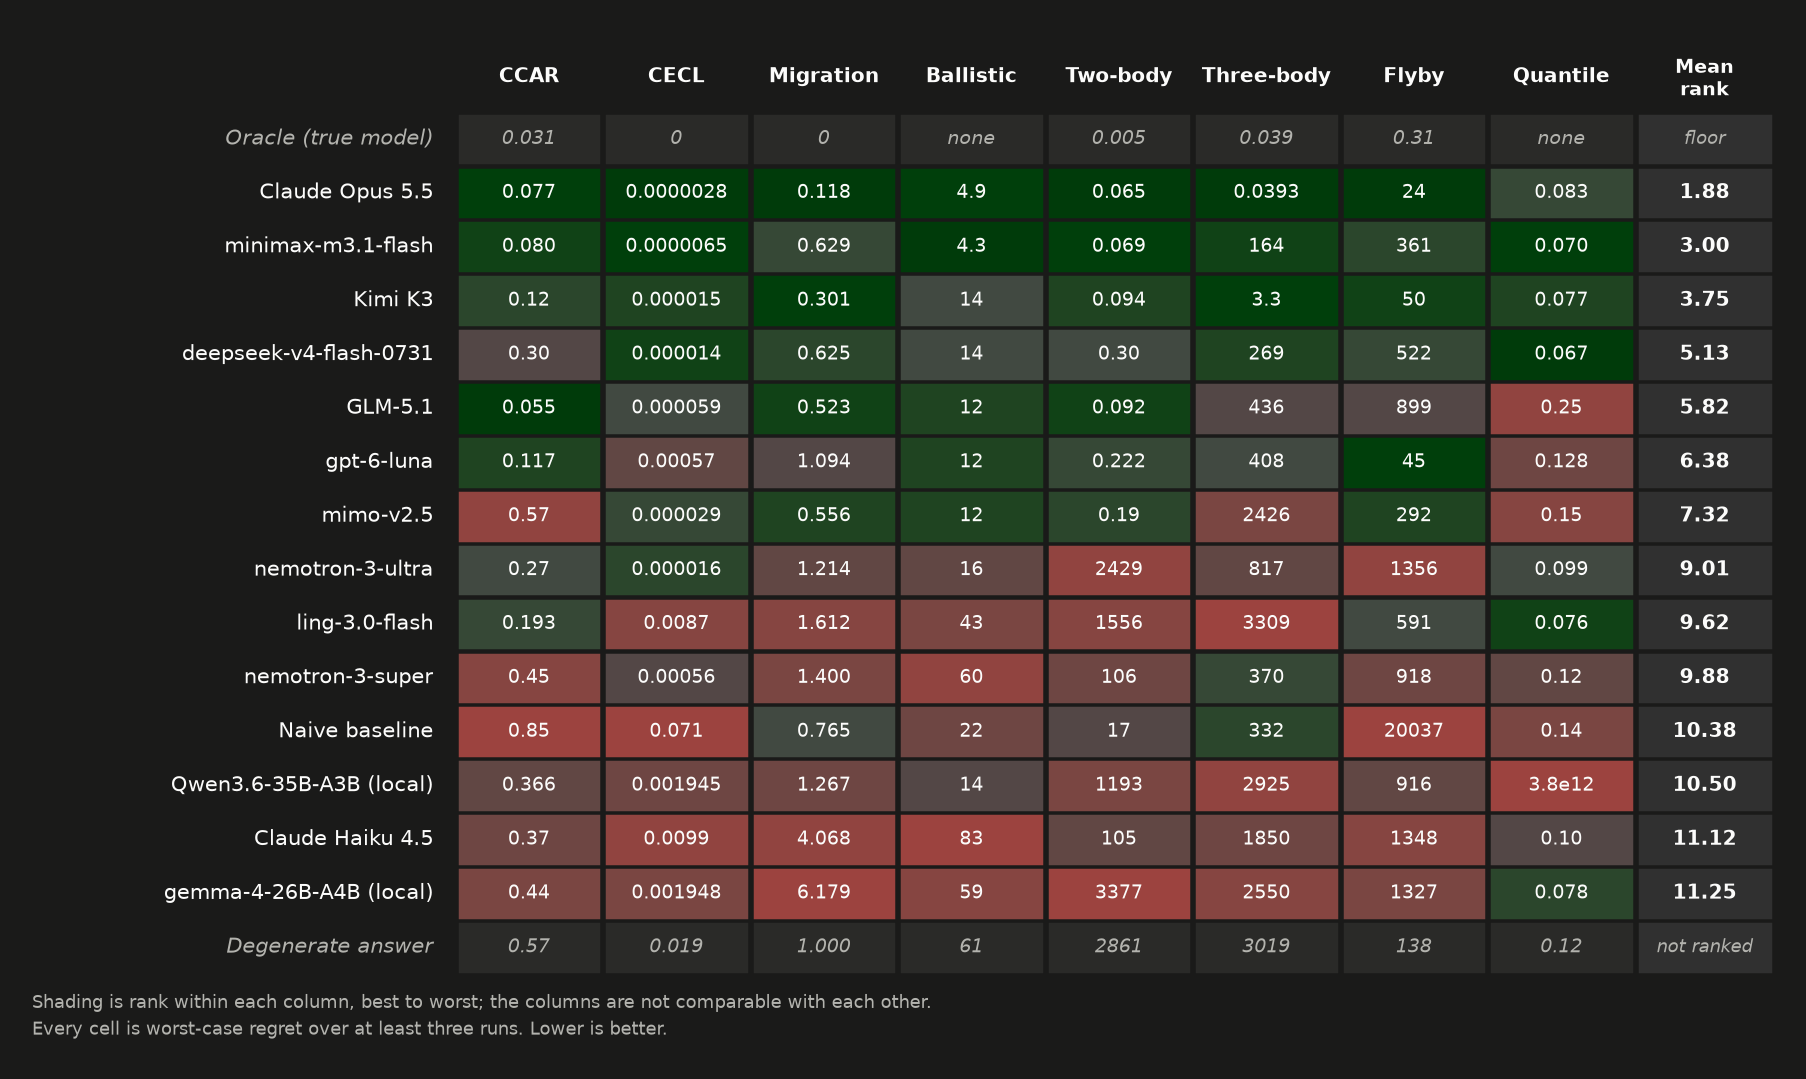
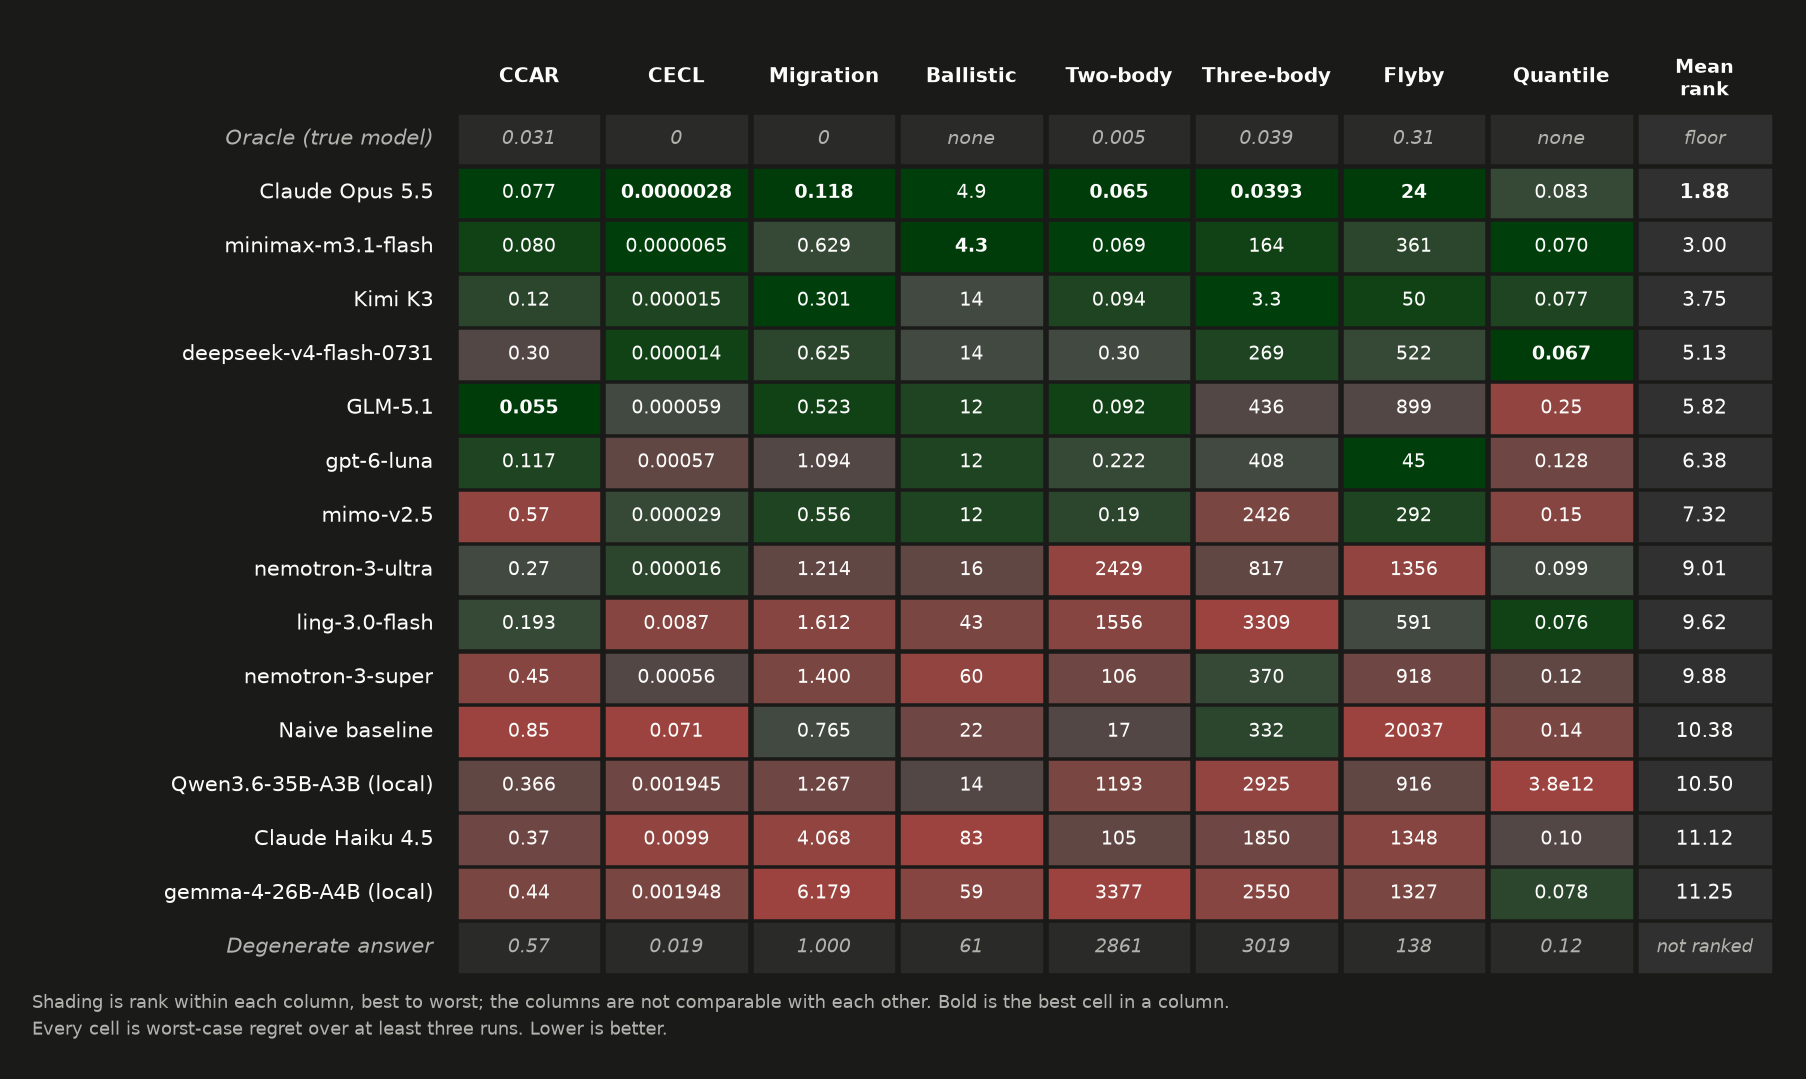
Bold the best cell in the figure, and put Tasks before Scores
The caption said "Bold below marks the best cell in a column" while the
table it referred to was inside a collapsed <details> block, so for a
reader who never expands it the sentence pointed at nothing. Rather than
hide the sentence with the table, render_scores.py now marks the best
cell in bold in the figure itself, on the same condition the markdown
table uses, and the caption drops "below" because it is now true of both.
The figure's own footer says so too, so the image still explains itself
when it is viewed outside the README.

That exposed a second inconsistency: every ranked row's mean rank was
bold, which contradicts "bold is the best cell in a column". Only the
best mean rank is bold now, in the figure and in the table.

Tasks moves above Scores so the column headers mean something when the
reader first meets them. The only prose that depended on the old order
was "the task docs linked below", now pointed at the Tasks section.

diff --git a/scripts/render_scores.py b/scripts/render_scores.py
@@ -147,9 +147,11 @@ def render(mode, path):
             ax.add_patch(Rectangle((LBL + j * CW + 0.012, y(i) - RH / 2 + 0.012),
                                    CW - 0.024, RH - 0.024, facecolor=fc,
                                    edgecolor=t["grid"], linewidth=0.9))
+            best = not is_ref and np.isfinite(v) and RANKS[j][i] == 1
             ax.text(LBL + j * CW + CW / 2, y(i), disp[j], ha="center", va="center",
                     fontsize=6.9, color=t["muted"] if is_ref else t["ink"],
-                    style="italic" if is_ref else "normal")
+                    style="italic" if is_ref else "normal",
+                    fontweight="bold" if best else "normal")
         rtxt = "floor" if i == 0 else ("not ranked" if is_ref else f"{mr:.2f}")
         ax.add_patch(Rectangle((LBL + ncol * CW + 0.012, y(i) - RH / 2 + 0.012),
                                RANKW - 0.024, RH - 0.024, facecolor=t["rankbg"],
@@ -157,11 +159,12 @@ def render(mode, path):
         ax.text(LBL + ncol * CW + RANKW / 2, y(i), rtxt, ha="center", va="center",
                 fontsize=6.4 if is_ref else 7.2, color=t["muted"] if is_ref else t["ink"],
                 style="italic" if is_ref else "normal",
-                fontweight="normal" if is_ref else "bold")
+                fontweight="bold" if (not is_ref and mr == BEST_MR) else "normal")
 
     ax.text(0, -0.78,
             "Shading is rank within each column, best to worst; the columns are not comparable "
-            "with each other.\nEvery cell is worst-case regret over at least three runs. Lower is better.",
+            "with each other. Bold is the best cell in a column.\nEvery cell is worst-case regret "
+            "over at least three runs. Lower is better.",
             ha="left", va="center", fontsize=6.4, color=t["muted"], linespacing=1.5)
     fig.savefig(path, facecolor=t["surface"], bbox_inches="tight", pad_inches=0.16)
     plt.close(fig)
@@ -184,6 +187,7 @@ def rank_in_col(j):
 
 
 RANKS = {j: rank_in_col(j) for j in range(len(COLS))}
+BEST_MR = min(ROWS[i][1] for i in ranked)
 
 
 
@@ -232,6 +236,8 @@ def markdown_table():
                 txt = f"*{txt}*"
             out.append(txt)
         rt = mean_rank_text(i)
+        if mr is not None and mr == BEST_MR:
+            rt = f"**{rt}**"
         out.append(f"{em}{rt}{em}" if em else rt)
         lines.append("| " + " | ".join(out) + " |")
     return "\n".join(lines)
@@ -316,7 +322,7 @@ def readme_block():
         FIGURE.format(nrow=len(ROWS), ncol=len(COLS), nranked=len(ranked)),
         "Shading is rank within that column, green best through red worst; the "
         + " and ".join(f"*{r[0]}*" for r in ROWS if r[1] is None)
-        + " rows are unranked and are shaded neutral. **Bold** below marks the best cell in a "
+        + " rows are unranked and are shaded neutral. **Bold** marks the best cell in a "
           "column. Mean rank is a Borda count within each column and is deliberately the only "
           "aggregate, since the cells are not comparable across columns.",
         "<details>",

diff --git a/README.md b/README.md
@@ -12,6 +12,19 @@ It qualifies a development *process*, not a model. A nine-quarter stress project
 
 Three principles shape every task. **Objective verification:** each task has a verifiable target ([docs/task-design.md](docs/task-design.md)). **Scalar regret:** each task scores continuous regret against an oracle or reference, so a task keeps discriminating even when every agent does well, because the magnitudes still separate them. **Pessimistic assessment:** the question is not how well agents do on average but whether the *worst case* is good enough, so every cell is a maximum rather than a mean.
 
+## Tasks
+
+| Task | Type | Challenge |
+| --- | --- | --- |
+| [CCAR stress loss](docs/tasks/ccar.md) | realistic domain | feature selection under collinearity, transform discovery, bounded functional form, stress extrapolation |
+| [CECL lifetime losses](docs/tasks/cecl.md) | synthetic credit portfolio | lifetime allowance, amortization, defaults and prepayments, recoveries, forecast reversion; simulated lifetime-loss prediction intervals |
+| [Rating migration under stress](docs/tasks/migration.md) | synthetic credit portfolio | annual-to-quarterly matrix decomposition against the Markov embedding problem, macro-conditional transition matrices, one model projected over three supervisory scenarios |
+| [Macro tail quantiles](docs/tasks/quantile.md) | realistic domain | population vs sample quantile, tail extrapolation from 10 observations |
+| [Ballistic extrapolation](docs/tasks/ballistic.md) | controlled mechanism | out-of-range extrapolation against velocity-dependent drag |
+| [Orbital: two-body, three-body, hyperbolic flyby](docs/tasks/orbital.md) | controlled mechanism | periodic signal recovery, coupled retrograde geometry, angles-only orbit determination |
+
+CCAR and quantile are the original realistic domain tasks. CECL adds a synthetic lifetime-credit-loss task. Migration is the newest and hardest of the credit tasks. The mechanism tasks calibrate the harness across a difficulty gradient with exactly known ground truth.
+
 ## Scores
 
 Every cell is the **worst-case regret** over at least three runs, CCAR over eight instances. Lower is better.
@@ -25,7 +38,7 @@ Every cell is the **worst-case regret** over at least three runs, CCAR over eigh
   <img alt="Score matrix: 16 rows across 8 tasks, 14 of the rows ranked, each cell shaded by its rank within that column, green for best through to red for worst. The same numbers are in the collapsed block below and in docs/scores.csv." src="docs/images/scores-light.png">
 </picture>
 
-Shading is rank within that column, green best through red worst; the *Oracle (true model)* and *Degenerate answer* rows are unranked and are shaded neutral. **Bold** below marks the best cell in a column. Mean rank is a Borda count within each column and is deliberately the only aggregate, since the cells are not comparable across columns.
+Shading is rank within that column, green best through red worst; the *Oracle (true model)* and *Degenerate answer* rows are unranked and are shaded neutral. **Bold** marks the best cell in a column. Mean rank is a Borda count within each column and is deliberately the only aggregate, since the cells are not comparable across columns.
 
 <details>
 
@@ -34,7 +47,7 @@ Shading is rank within that column, green best through red worst; the *Oracle (t
 | Model | CCAR | CECL | Migration | Ballistic | Two-body | Three-body | Flyby | Quantile | Mean rank |
 | --- | --- | --- | --- | --- | --- | --- | --- | --- | --- |
 | *Oracle (true model)* | *0.031* | *0* | *0* | *none* | *0.005* | *0.039* | *0.31* | *none* | *floor* |
-| Claude Opus 5.5 | 0.077 | **0.0000028** | **0.118** | 4.9 | **0.065** | **0.0393** | **24** | 0.083 | 1.88 |
+| Claude Opus 5.5 | 0.077 | **0.0000028** | **0.118** | 4.9 | **0.065** | **0.0393** | **24** | 0.083 | **1.88** |
 | minimax-m3.1-flash | 0.080 | 0.0000065 | 0.629 | **4.3** | 0.069 | 164 | 361 | 0.070 | 3.00 |
 | Kimi K3 | 0.12 | 0.000015 | 0.301 | 14 | 0.094 | 3.3 | 50 | 0.077 | 3.75 |
 | deepseek-v4-flash-0731 | 0.30 | 0.000014 | 0.625 | 14 | 0.30 | 269 | 522 | **0.067** | 5.13 |
@@ -72,20 +85,7 @@ Also in [docs/scores.csv](docs/scores.csv), which carries the per-column ranks a
 
 Row labels name the model, not the endpoint that served it, and serving provenance is not controlled ([detail](docs/limitations.md#serving-provenance-is-not-controlled)). A cell is reported only if none of its runs failed for reasons outside the agent's control, with the recorded exceptions noted in [docs/models.md](docs/models.md). Two rows were measured with three draws per instance rather than one and are reported on a matched convention that keeps them comparable. CCAR's response law is now drawn per instance rather than fixed and published, which changed the answer key rather than the question, so archived runs stay in the column ([detail](docs/limitations.md#the-ccar-response-law-was-public)).
 
-Per-row provenance, measurement conventions, and the caveats behind individual cells are in [docs/models.md](docs/models.md). Per-task scoring definitions are in the task docs linked below. Everything known to be wrong or unresolved is in [docs/limitations.md](docs/limitations.md).
-
-## Tasks
-
-| Task | Type | Challenge |
-| --- | --- | --- |
-| [CCAR stress loss](docs/tasks/ccar.md) | realistic domain | feature selection under collinearity, transform discovery, bounded functional form, stress extrapolation |
-| [CECL lifetime losses](docs/tasks/cecl.md) | synthetic credit portfolio | lifetime allowance, amortization, defaults and prepayments, recoveries, forecast reversion; simulated lifetime-loss prediction intervals |
-| [Rating migration under stress](docs/tasks/migration.md) | synthetic credit portfolio | annual-to-quarterly matrix decomposition against the Markov embedding problem, macro-conditional transition matrices, one model projected over three supervisory scenarios |
-| [Macro tail quantiles](docs/tasks/quantile.md) | realistic domain | population vs sample quantile, tail extrapolation from 10 observations |
-| [Ballistic extrapolation](docs/tasks/ballistic.md) | controlled mechanism | out-of-range extrapolation against velocity-dependent drag |
-| [Orbital: two-body, three-body, hyperbolic flyby](docs/tasks/orbital.md) | controlled mechanism | periodic signal recovery, coupled retrograde geometry, angles-only orbit determination |
-
-CCAR and quantile are the original realistic domain tasks. CECL adds a synthetic lifetime-credit-loss task. Migration is the newest and hardest of the credit tasks. The mechanism tasks calibrate the harness across a difficulty gradient with exactly known ground truth.
+Per-row provenance, measurement conventions, and the caveats behind individual cells are in [docs/models.md](docs/models.md). Per-task scoring definitions are in the task docs linked under [Tasks](#tasks). Everything known to be wrong or unresolved is in [docs/limitations.md](docs/limitations.md).
 
 ## Quick Start
 
